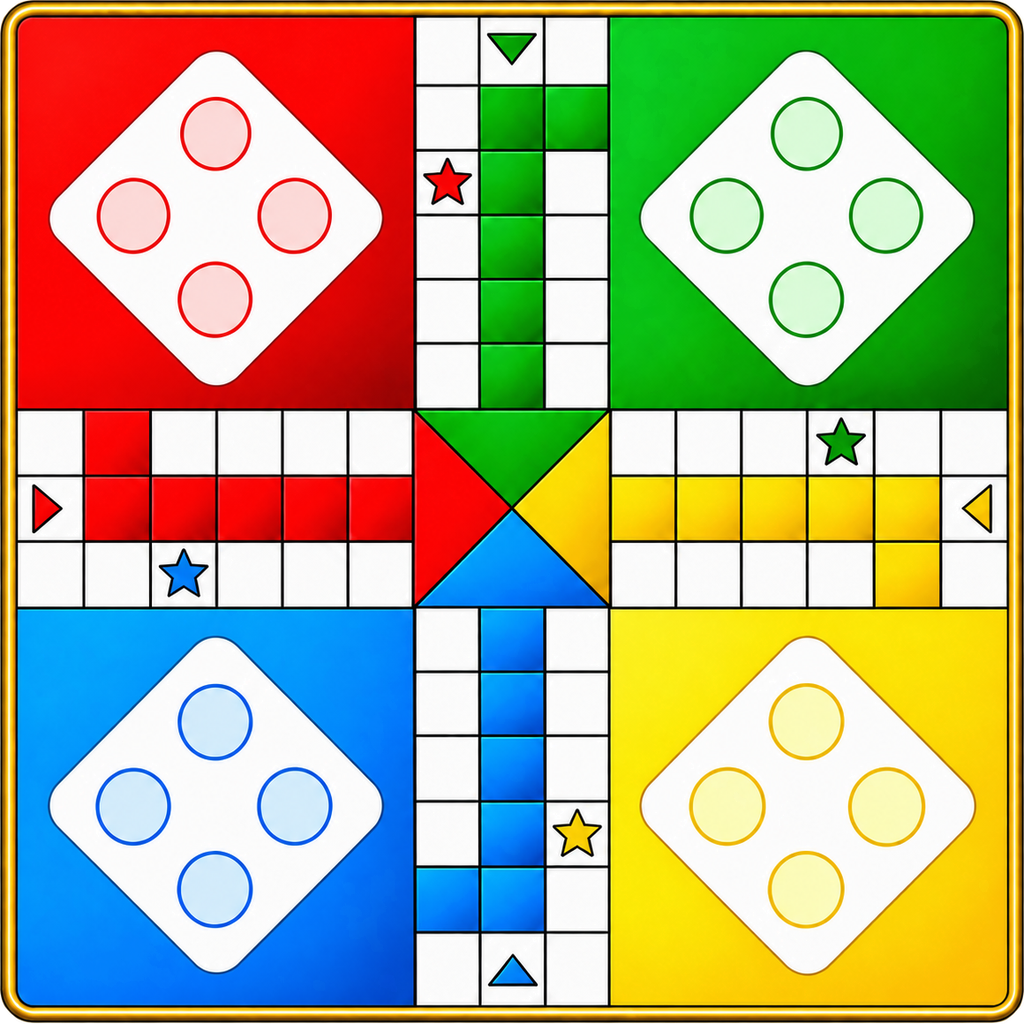
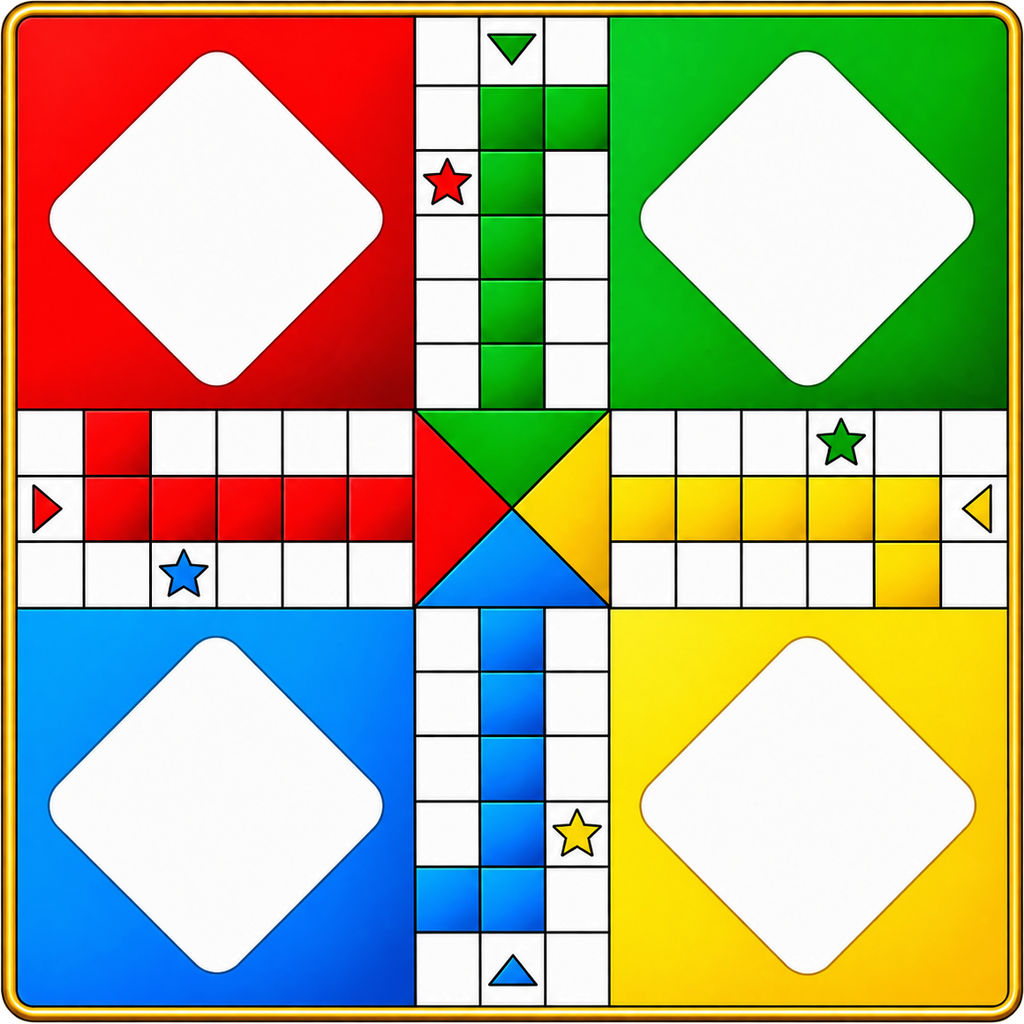
Use empty-diamond board and draw yard pawn pads in code
The new board has no resting circles, so pads are painted under each
yard pawn (diamond centre +/- 1.2 cells). Pawns are slightly smaller on
the track so they sit inside their cell.

Claude-Session: https://claude.ai/code/session_012rtvhD4k8JPKrUCCDGJ4PR

diff --git a/lib/screens/game_screen.dart b/lib/screens/game_screen.dart
@@ -271,7 +271,7 @@ class _Board extends StatelessWidget {
     final placed = <(Token, Offset, double)>[];
     for (final t in all) {
       var pos = LudoRules.position(t.player, t.index, t.progress);
-      var scale = t.inYard ? 1.22 : (t.isHome ? .68 : 1.0);
+      var scale = t.inYard ? 1.12 : (t.isHome ? .68 : .92);
       final group = groups[pos];
       if (group != null && group.length > 1) {
         final i = group.indexOf(t), n = group.length;
@@ -307,6 +307,14 @@ class _Board extends StatelessWidget {
           Positioned.fill(
             child: Image.asset(boardAsset,
                 fit: BoxFit.fill, filterQuality: FilterQuality.medium),
+          ),
+          Positioned.fill(
+            child: IgnorePointer(
+              child: CustomPaint(
+                painter: _YardPadsPainter(
+                    seats: game.seats, rim: rim, cell: cell),
+              ),
+            ),
           ),
           if (game.phase != Phase.gameOver)
             AnimatedPositioned(
@@ -444,6 +452,56 @@ class _TokenViewState extends State<_TokenView>
       child: RepaintBoundary(child: view),
     );
   }
+}
+
+/// Soft coloured pads in each yard diamond marking where a pawn rests.
+class _YardPadsPainter extends CustomPainter {
+  const _YardPadsPainter({
+    required this.seats,
+    required this.rim,
+    required this.cell,
+  });
+  final List<int> seats;
+  final double rim;
+  final double cell;
+
+  @override
+  void paint(Canvas canvas, Size size) {
+    for (var p = 0; p < 4; p++) {
+      final o = LudoRules.yardOrigins[p];
+      final origin = Offset(rim + o.$1 * cell, rim + o.$2 * cell);
+      for (final slot in LudoRules.yardSlots) {
+        final c = origin + slot * cell + Offset(0, cell * .06);
+        final pad = Rect.fromCenter(
+            center: c, width: cell * 1.25, height: cell * .78);
+        canvas.drawOval(
+          pad.shift(Offset(0, cell * .05)),
+          Paint()..color = playerDeep[p].withValues(alpha: .22),
+        );
+        canvas.drawOval(
+          pad,
+          Paint()
+            ..shader = RadialGradient(
+              colors: [
+                playerLight[p].withValues(alpha: .55),
+                playerColors[p].withValues(alpha: .28),
+              ],
+            ).createShader(pad),
+        );
+        canvas.drawOval(
+          pad,
+          Paint()
+            ..style = PaintingStyle.stroke
+            ..strokeWidth = cell * .06
+            ..color = playerColors[p].withValues(alpha: .75),
+        );
+      }
+    }
+  }
+
+  @override
+  bool shouldRepaint(_YardPadsPainter old) =>
+      old.cell != cell || old.rim != rim;
 }
 
 /// Ground shadow and the pulsing "you can move me" ring under a pawn.

diff --git a/lib/game/ludo_rules.dart b/lib/game/ludo_rules.dart
@@ -46,10 +46,10 @@ abstract final class LudoRules {
 
   /// Token resting spots inside a 6x6 yard, in cell units.
   static const yardSlots = [
-    Offset(3, 1.95),
-    Offset(1.75, 3),
-    Offset(4.2, 3),
-    Offset(3, 4.26),
+    Offset(3, 1.85),
+    Offset(1.8, 3.05),
+    Offset(4.2, 3.05),
+    Offset(3, 4.25),
   ];
 
   static const _homeSpots = [
